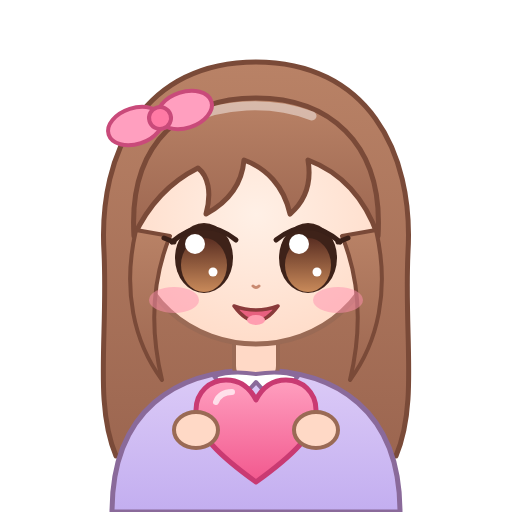
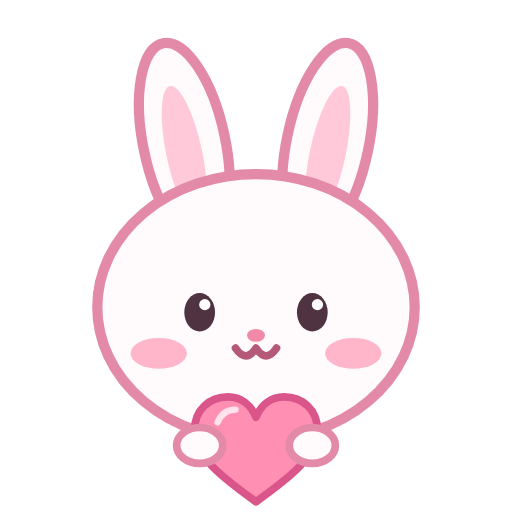
Replace the scary girl with a simple white bunny
The owner found the detailed girl's face scary and picked the bunny
from three simple options: dot eyes, pink cheeks, holding a heart.

diff --git a/src/ui/components.tsx b/src/ui/components.tsx
@@ -124,12 +124,12 @@ export function PillHeading({ colors, text }: { colors: Colors; text: string }) 
   );
 }
 
-/** ナビゲーター役の女の子（assets/mascot.png）。飾りなので読み上げない */
+/** 案内役のうさぎ（assets/mascot.png）。飾りなので読み上げない */
 export function Mascot({ size }: { size: number }) {
   return <Image {...hidden} source={require('../../assets/mascot.png')} style={{ width: size, height: size }} />;
 }
 
-/** 女の子と吹き出し。吹き出しの文だけ読み上げる */
+/** うさぎと吹き出し。吹き出しの文だけ読み上げる */
 export function MascotSays({ colors, text, size = 76 }: { colors: Colors; text: string; size?: number }) {
   return (
     <View style={styles.mascotRow}>

diff --git a/src/ui/CalendarScreen.tsx b/src/ui/CalendarScreen.tsx
@@ -24,7 +24,7 @@ import type { Karenda } from './useKarenda';
 
 type Props = { k: Karenda; today: DateKey };
 
-/** 女の子が選んだ日について話す一言。時期は予測なので「かも」「と言われている」で言い切らない */
+/** うさぎが選んだ日について話す一言。時期は予測なので「かも」「と言われている」で言い切らない */
 function mascotLine(phase: PeriodPhase | undefined, who: string, recorded: boolean): string {
   if (!recorded) return 'はじめまして！生理が始まった日を選んで、記録してみてね';
   if (phase === 'before') return `${who}PMSの時期かも。ゆっくり過ごしてね`;

diff --git a/.claude/memory/ui_rules.md b/.claude/memory/ui_rules.md
@@ -10,7 +10,7 @@
 - 警告は `alertStrong`（くすみブルー）/ `alertMild`、カードの地は `alertStrongSoft` / `alertMildSoft`。削除は `danger`。強調 `accent`
 - 色を直書きせず、必ず `useColors()` のトークンを使う。新しい色はライトとダーク両方に足す
 - 文字は `components.tsx` の `Text` を使う（react-native の `Text` は直接使わない）。丸ゴシック Zen Maru Gothic を同梱し、太さ600/700はBold書体に切り替わる。入力欄は `fontFamily: fonts.regular`
-- 2026-10-29 v1.3.0 パステル: 画面の地はグラデーション（`backdrop`）、見出しは `Ribbon`、上部に `Decorations`、女の子 `MascotSays`（`assets/mascot.png`、仮の絵）。値は AMIEL_DESIGN_SYSTEM.md §3.5
+- 2026-10-29 v1.3.0 パステル: 画面の地はグラデーション（`backdrop`）、見出しは `Ribbon`、上部に `Decorations`、案内役のうさぎ `MascotSays`（`assets/mascot.png`。人の顔は怖くなるので点の目のゆるかわにする）。値は AMIEL_DESIGN_SYSTEM.md §3.5
 - 見た目はAmicuna流（2026-10-29）: カード状のものは `Card`（白・角丸16・プラム色の影）、見出しは `PillHeading`（ハート付きカプセル）、予定と重なる印は `AlertMark`（⚠絵文字は使わない）
 - 値と役割の仕様は `AMIEL_DESIGN_SYSTEM.md`（2026-10-27決定: アイコンのローズ`#c44c74`=ブランド色、しっかり注意=くすみブルー`#4a5ead`（女性が好む・幅広い世代向けの色として選定。朱色・ミント・そらいろ等は見送り）、削除ボタンは`danger`（赤のまま）。実装は同書§9の順）
 
